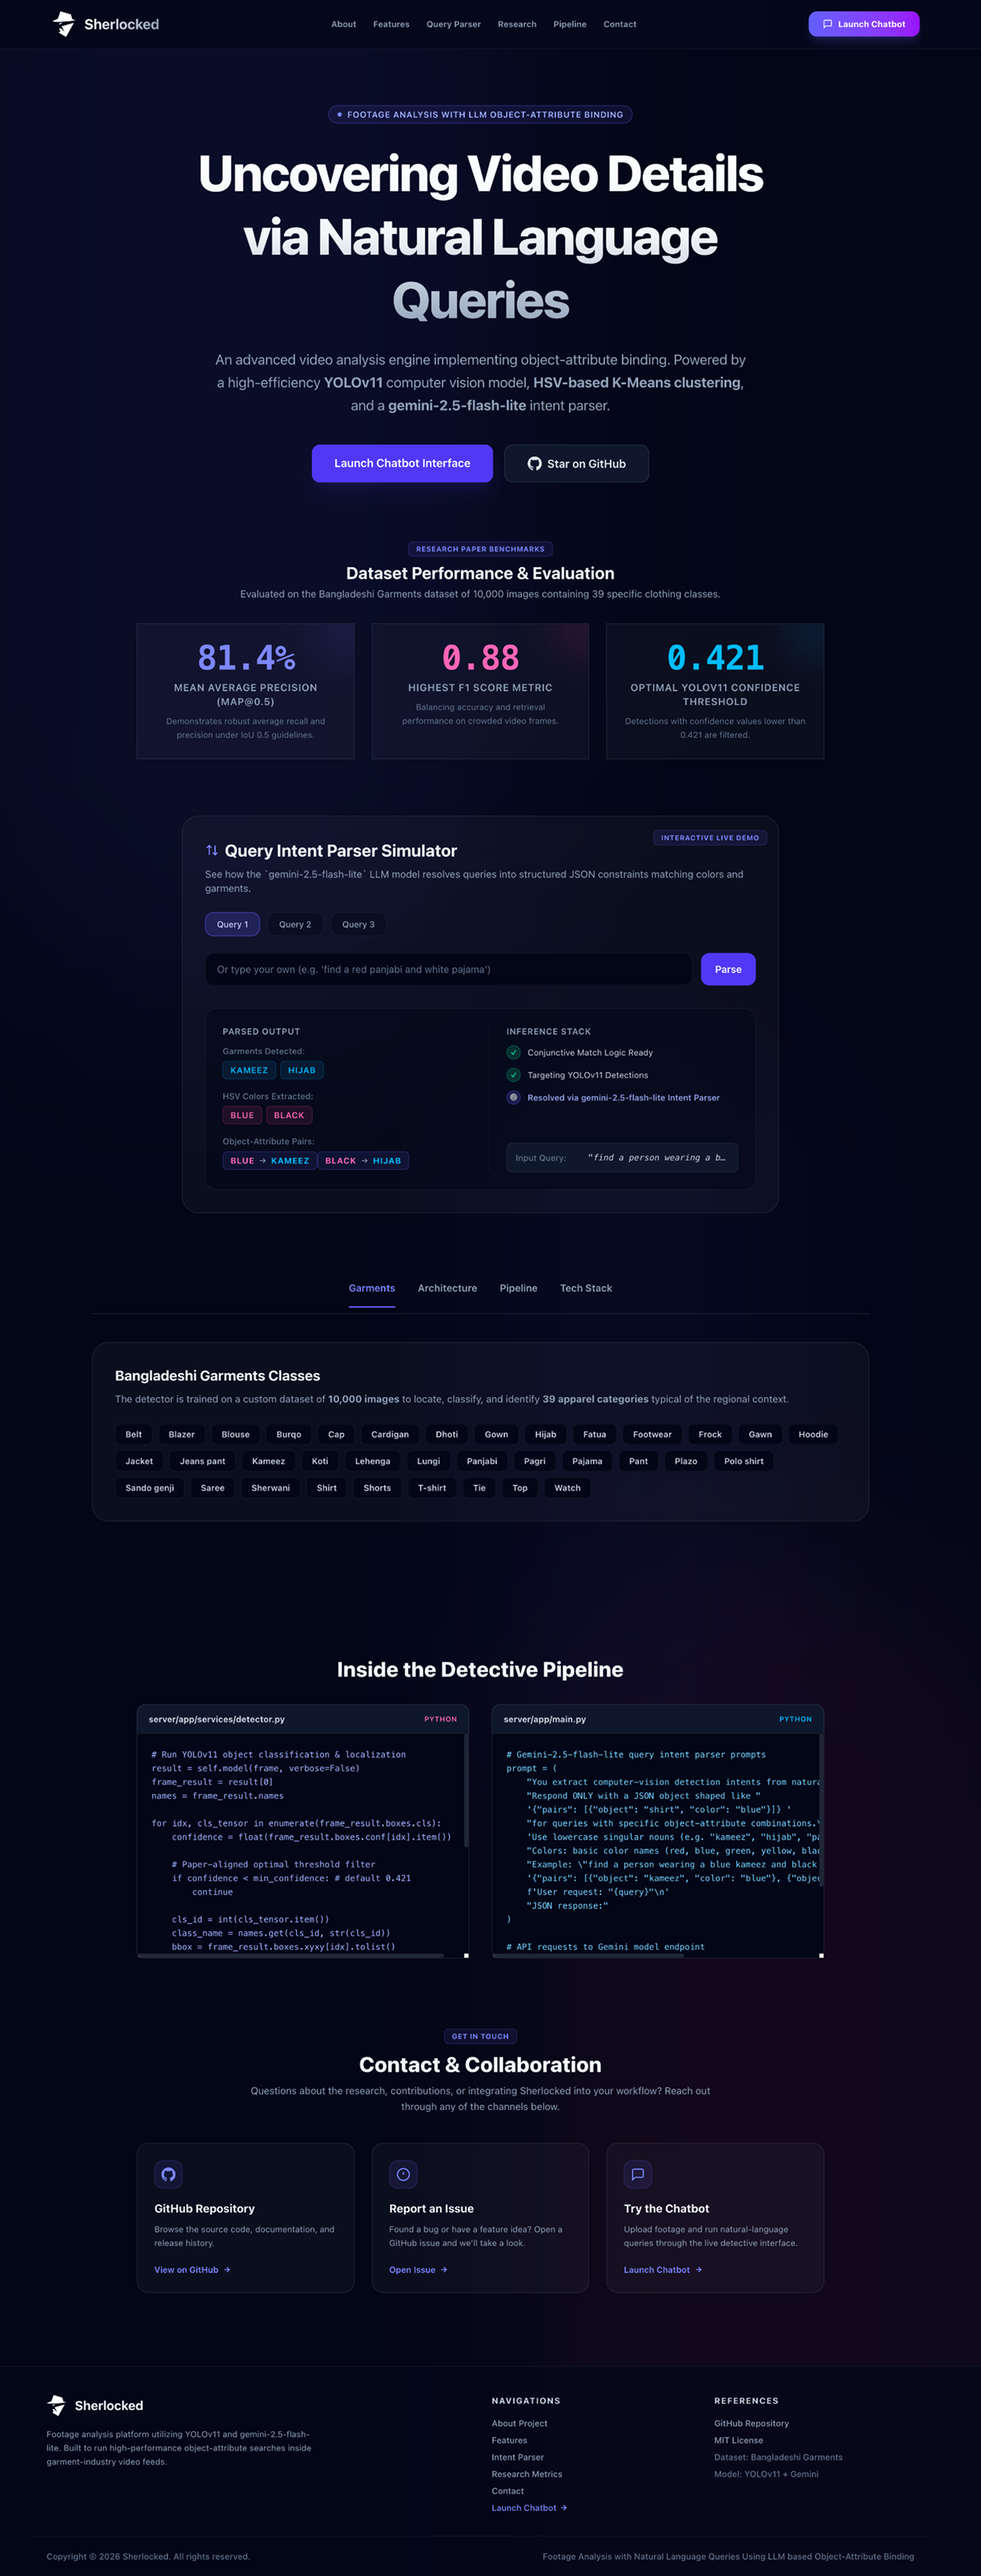
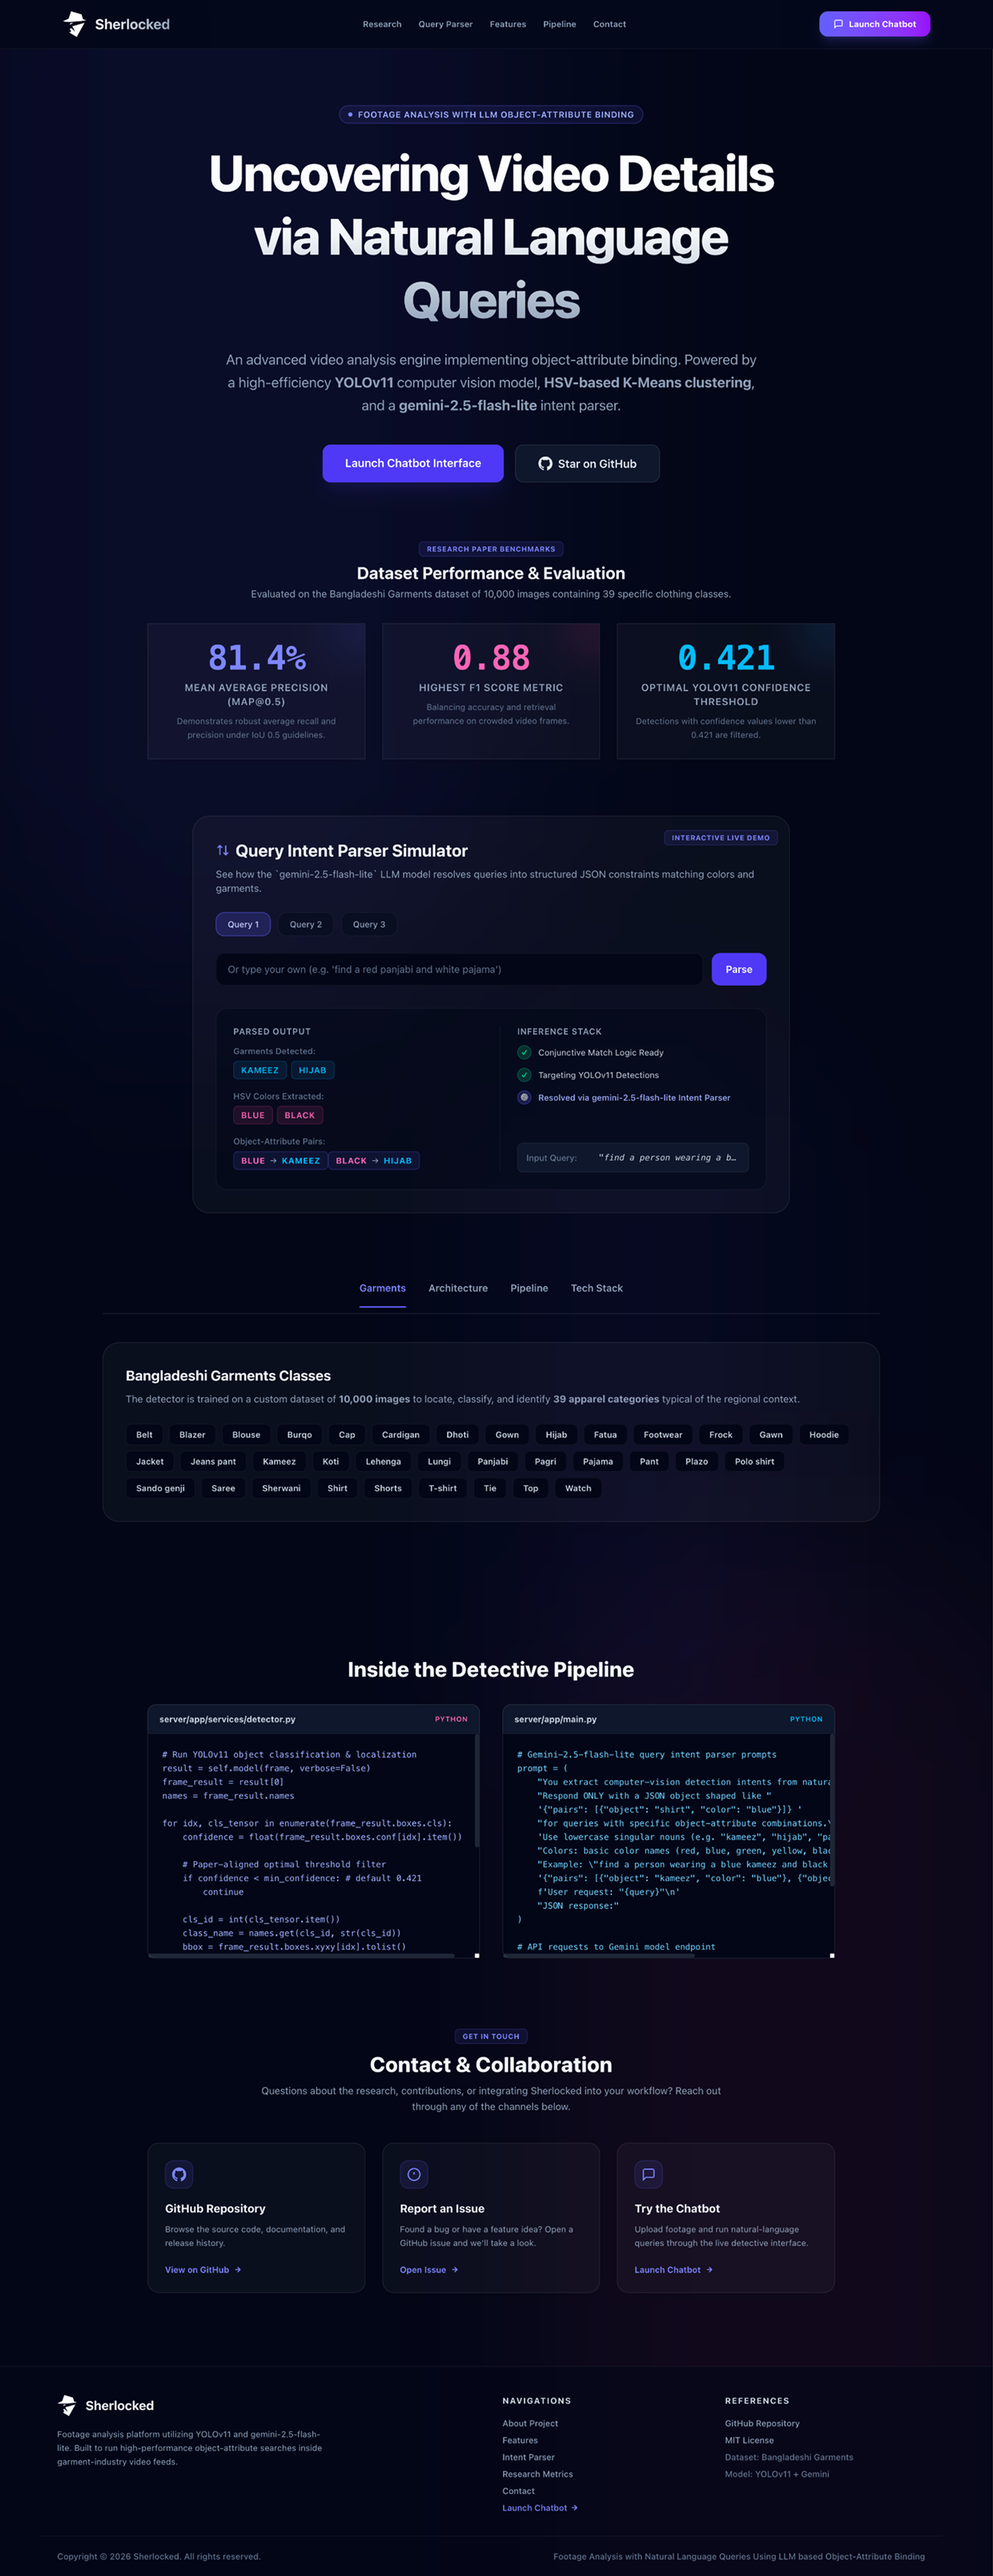
image directory fix

diff --git a/client/components/ui/sherlocked-logo.tsx b/client/components/ui/sherlocked-logo.tsx
@@ -3,11 +3,7 @@ import Image from "next/image";
 
 const ICON_ASPECT = 412 / 384;
 
-const logoSrc =
-  process.env.NODE_ENV === "production" &&
-  process.env.GITHUB_ACTIONS === "true"
-    ? "/sherlocked/icon.svg"
-    : "/icon.svg";
+const basePath = process.env.NODE_ENV === "production" ? "/sherlocked" : "";
 
 type SherlockedLogoProps = Omit<
   ImgHTMLAttributes<HTMLImageElement>,
@@ -24,7 +20,7 @@ export function SherlockedLogo({
 }: SherlockedLogoProps) {
   return (
     <Image
-      src={logoSrc}
+      src={`${basePath}/icon.svg`}
       alt="Sherlocked"
       width={size}
       height={Math.round(size * ICON_ASPECT)}

diff --git a/client/next.config.ts b/client/next.config.ts
@@ -6,7 +6,6 @@ const nextConfig: NextConfig = {
   output: "export",
 
   basePath: isGitHubPages ? "/sherlocked" : "",
-  assetPrefix: isGitHubPages ? "/sherlocked/" : "",
 
   images: {
     unoptimized: true,

diff --git a/README.md b/README.md
@@ -54,6 +54,7 @@ Welcome to the **Sherlocked** project! This README provides an overview of the p
    ```bash
    python -m venv .venv
    source .venv/bin/activate
+   
    pip install -r server/requirements.txt
    ```
 5. Run the frontend:
